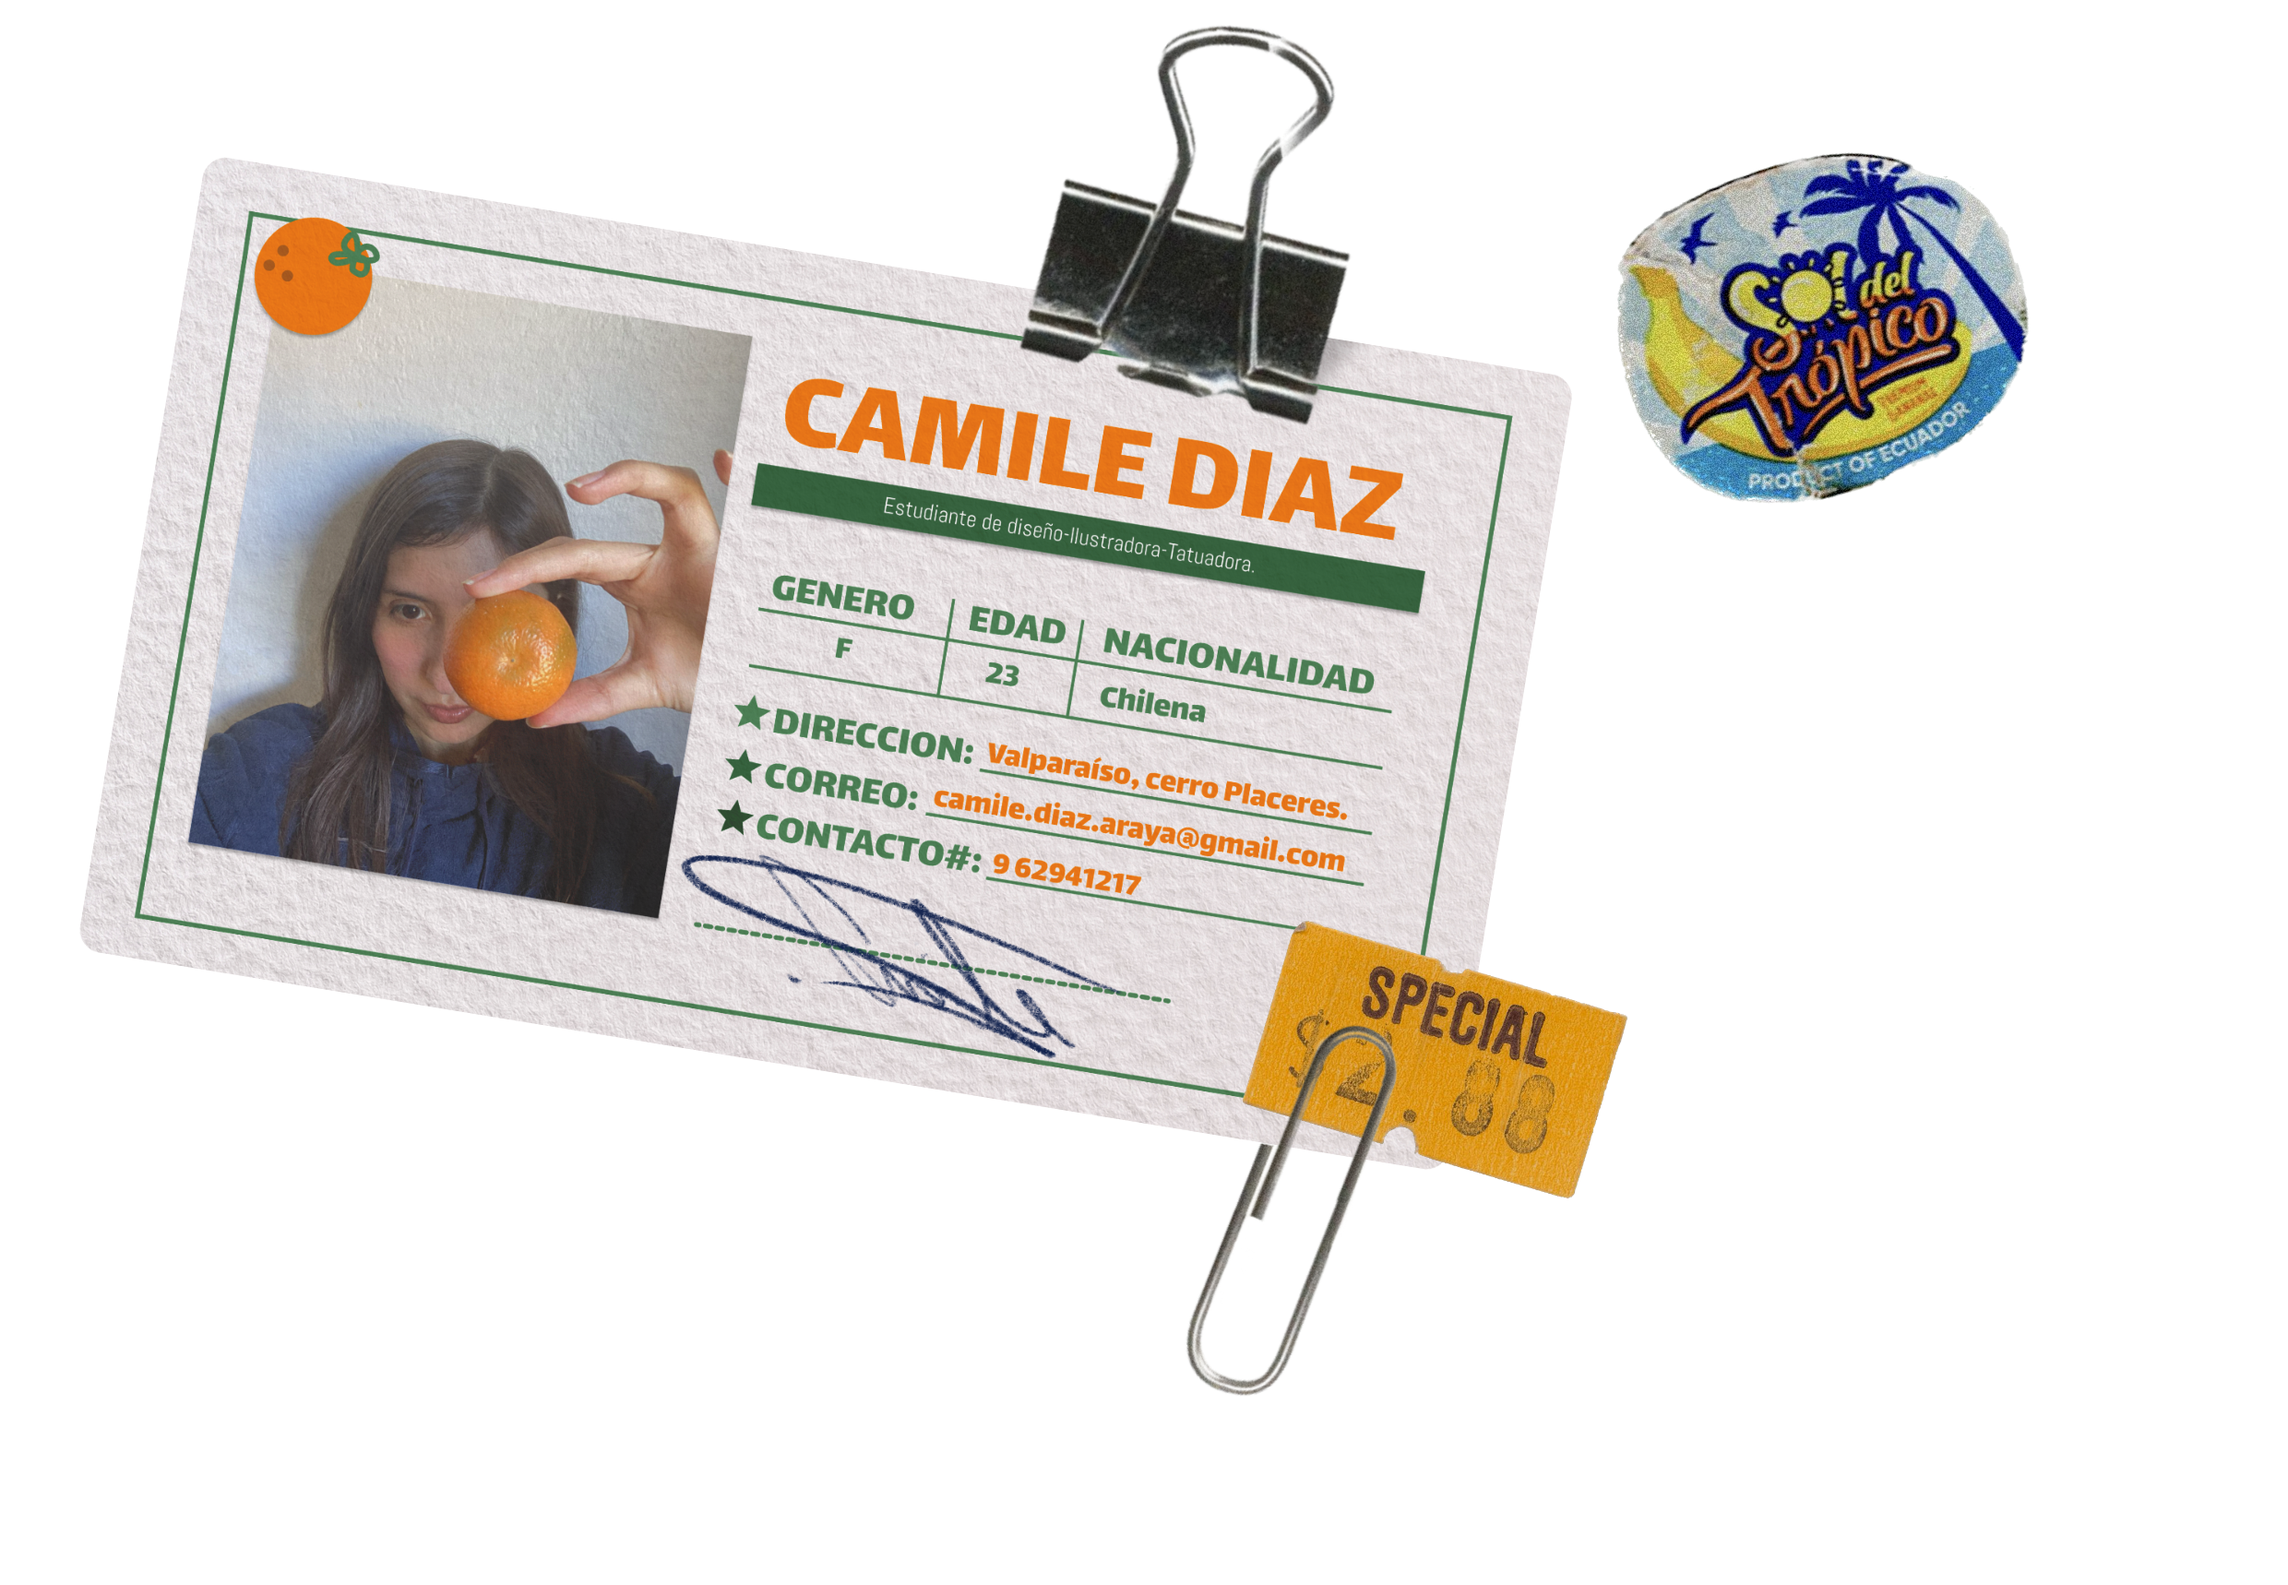
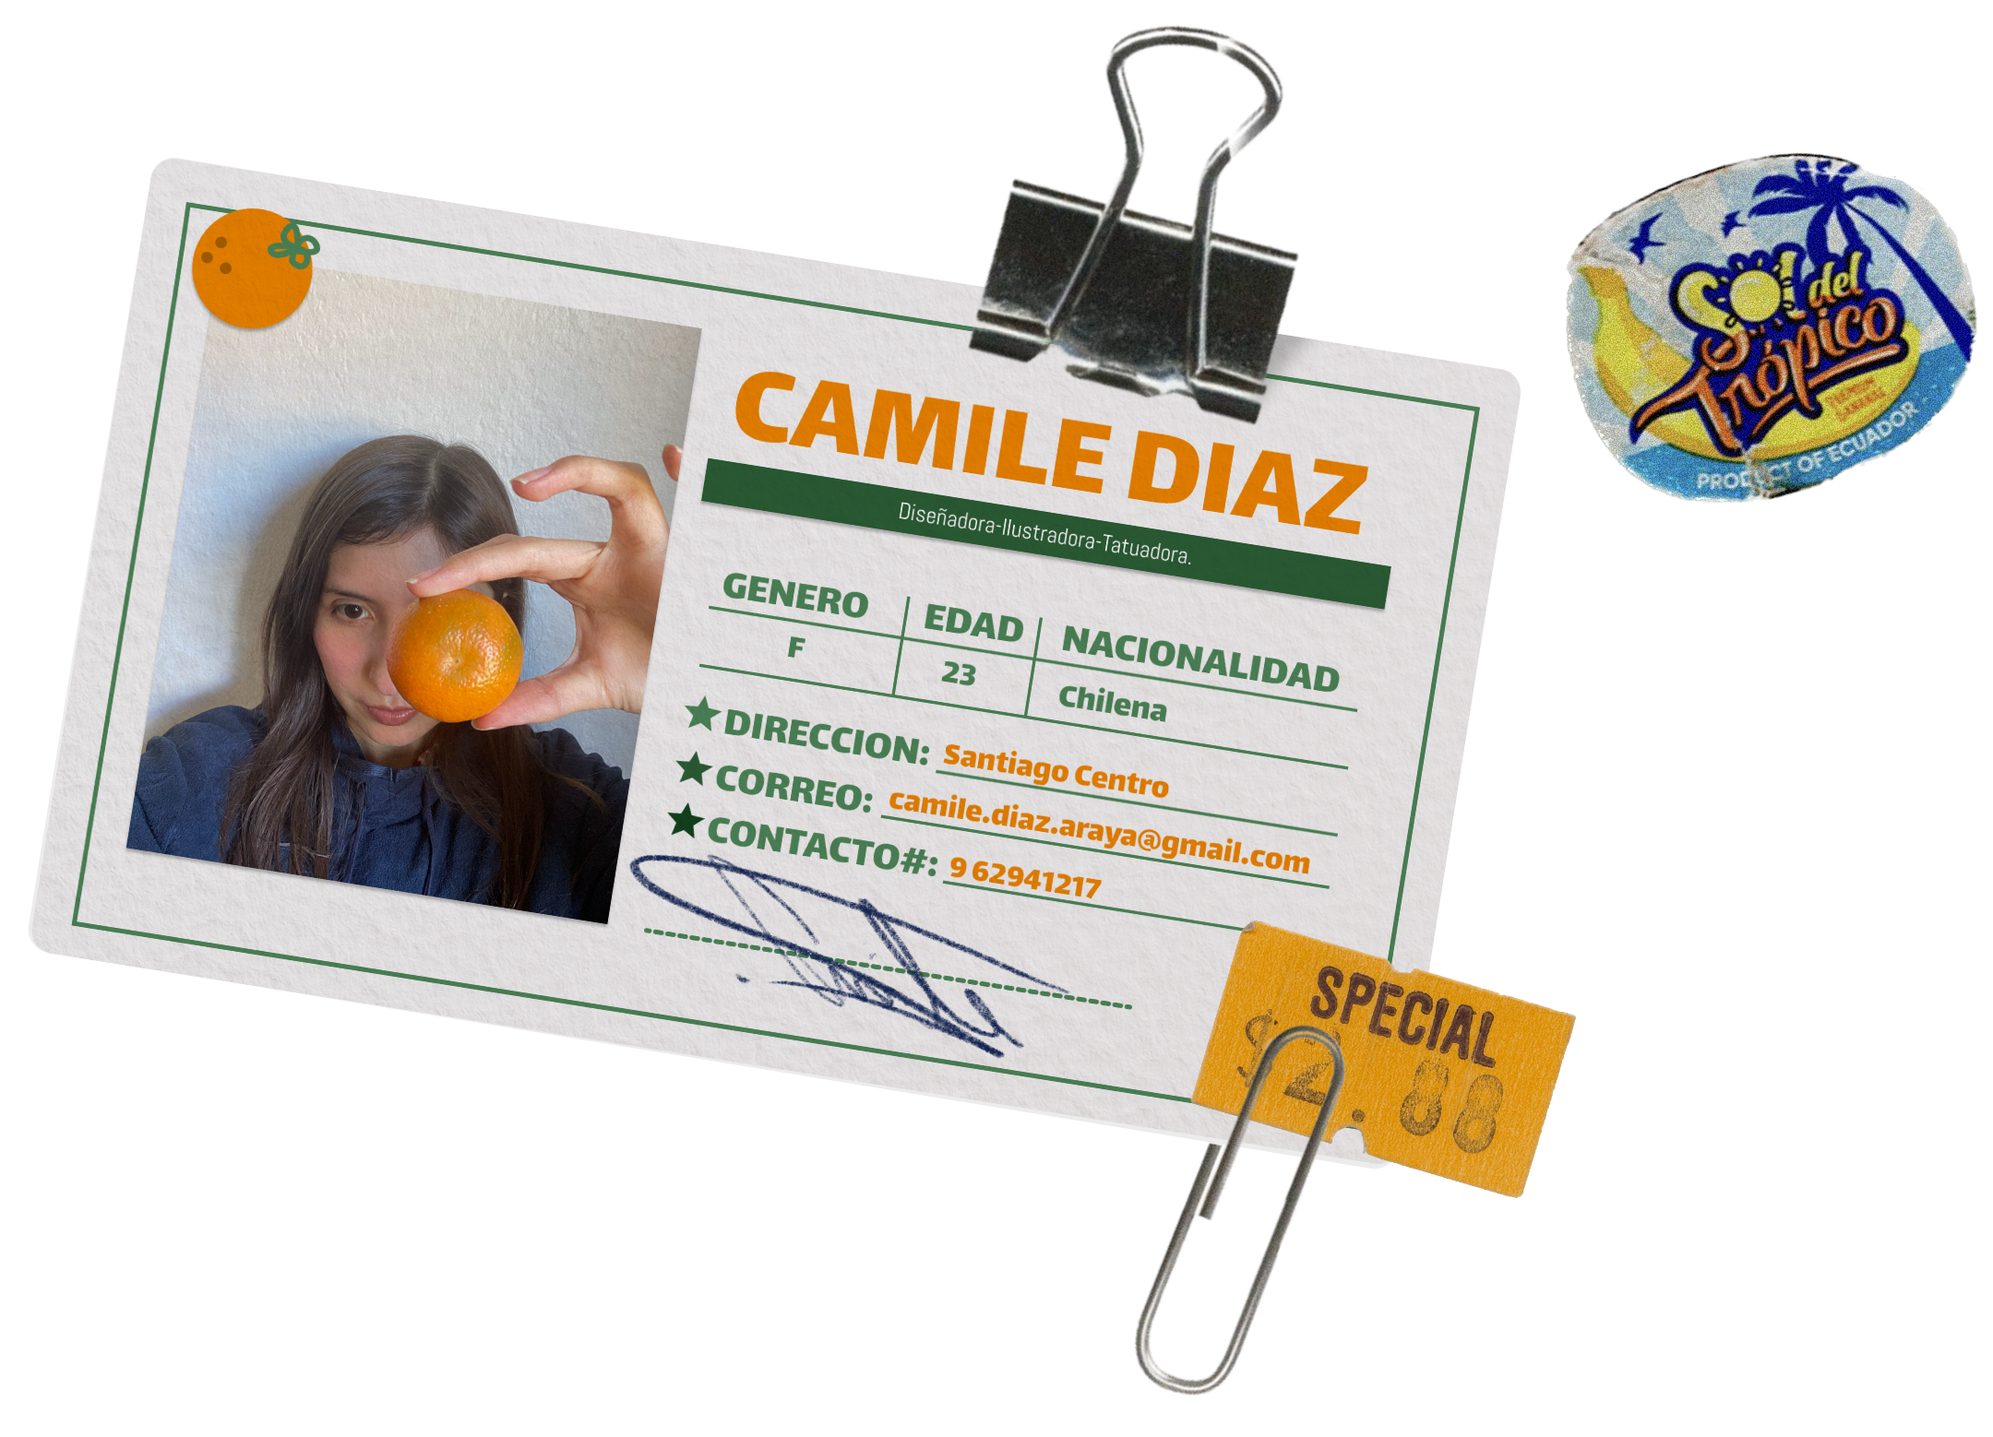
cambios

diff --git a/src/components/ProjectsSection2.tsx b/src/components/ProjectsSection2.tsx
@@ -4,23 +4,38 @@ import { ProjectCard } from "./ProjectCard";
 import { projects } from "@/app/data/projects";
 import { useState } from "react";
 
-const cardTransforms = [
-  "md:rotate-[-7deg] md:translate-x-6 md:translate-y-2",
-  "md:rotate-[7deg] md:-translate-x-6 md:translate-y-10",
-  "md:rotate-[-7deg] md:translate-x-10 md:-translate-y-10",
-  "md:rotate-[7deg] md:-translate-x-8 md:-translate-y-2",
-];
+const getCardTransform = (index: number) => {
+  const row = Math.floor(index / 2);
+  const isLeft = index % 2 === 0;
+
+  const rotation = isLeft
+    ? "sm:rotate-[-5deg] md:rotate-[-7deg]"
+    : "sm:rotate-[5deg] md:rotate-[7deg]";
+  const horizontal = isLeft
+    ? "sm:translate-x-3 md:translate-x-6"
+    : "sm:-translate-x-3 md:-translate-x-6";
+
+  // Esto sí cierra el hueco real entre filas
+  const overlapByRow =
+    row === 0
+      ? ""
+      : row === 1
+        ? "sm:-mt-8 md:-mt-10"
+        : row === 2
+          ? "sm:-mt-12 md:-mt-14"
+          : row === 3
+            ? "sm:-mt-16 md:-mt-18"
+            : "sm:-mt-20 md:-mt-22";
+
+  return `${rotation} ${horizontal} ${overlapByRow}`;
+};
 
 export const ProjectsSection2 = () => {
   const [selectedCard, setSelectedCard] = useState<number | null>(null);
   const [hoveredCard, setHoveredCard] = useState<number | null>(null);
 
   const handleSelectCard = (index: number) => {
-    if (selectedCard === index) {
-      setSelectedCard(null);
-    } else {
-      setSelectedCard(index);
-    }
+    setSelectedCard(selectedCard === index ? null : index);
   };
 
   const handleHoverCard = (index: number | null) => {
@@ -39,7 +54,7 @@ export const ProjectsSection2 = () => {
         Proyectos
       </h2>
 
-      <div className="grid grid-cols-1 sm:grid-cols-2 md:grid-cols-2 gap-6 md:gap-0 overflow-visible">
+      <div className="grid grid-cols-1 sm:grid-cols-2 gap-x-6 gap-y-0 overflow-visible">
         {projects.map((p, index) => (
           <ProjectCard
             key={p.slug}
@@ -53,7 +68,7 @@ export const ProjectsSection2 = () => {
             onHoverCard={handleHoverCard}
             selectedCard={selectedCard ?? -1}
             hoveredCard={hoveredCard ?? -1}
-            className={cardTransforms[index % cardTransforms.length]}
+            className={getCardTransform(index)}
           />
         ))}
       </div>

diff --git a/src/app/data/projects.ts b/src/app/data/projects.ts
@@ -21,6 +21,7 @@ import libreta1 from "../../../public/images/libreta/imagen1.jpg";
 import tattoosPortada from "../../../public/images/tattos/portada.png";
 import tattoos1 from "../../../public/images/tattos/imagen1.png";
 import ncgPortada from "../../../public/images/ncg/portada NCG.png";
+import uxuiPortada from "../../../public/images/uxui/portadauxui.png";
 
 export type Project = {
   slug: string;
@@ -123,6 +124,21 @@ La propuesta se ejecutó en una mezcla textil 60% algodón y 40% poliéster, con
       industry: "Audiovisual y marca",
       client: "New Capital Group",
       service: "Portafolio audiovisual",
+      date: "2025",
+    },
+  },
+  {
+    slug: "ux-ui",
+    title: "UX / UI",
+    description:
+      "Proyecto UX/UI con redirección directa al sitio externo del portafolio.",
+    cover: uxuiPortada,
+    images: [],
+    externalUrl: "https://prtfolioaudiovisual.framer.website/ux-ui",
+    meta: {
+      industry: "UX/UI y diseño digital",
+      client: "Proyecto externo",
+      service: "Diseño UX/UI",
       date: "2025",
     },
   },
